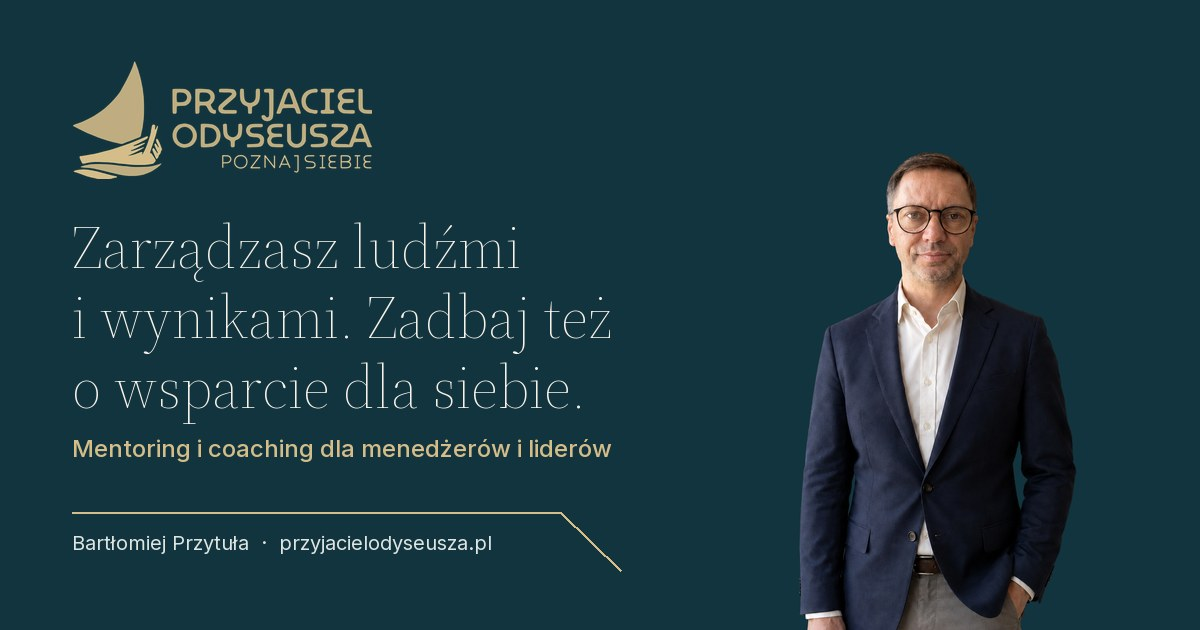
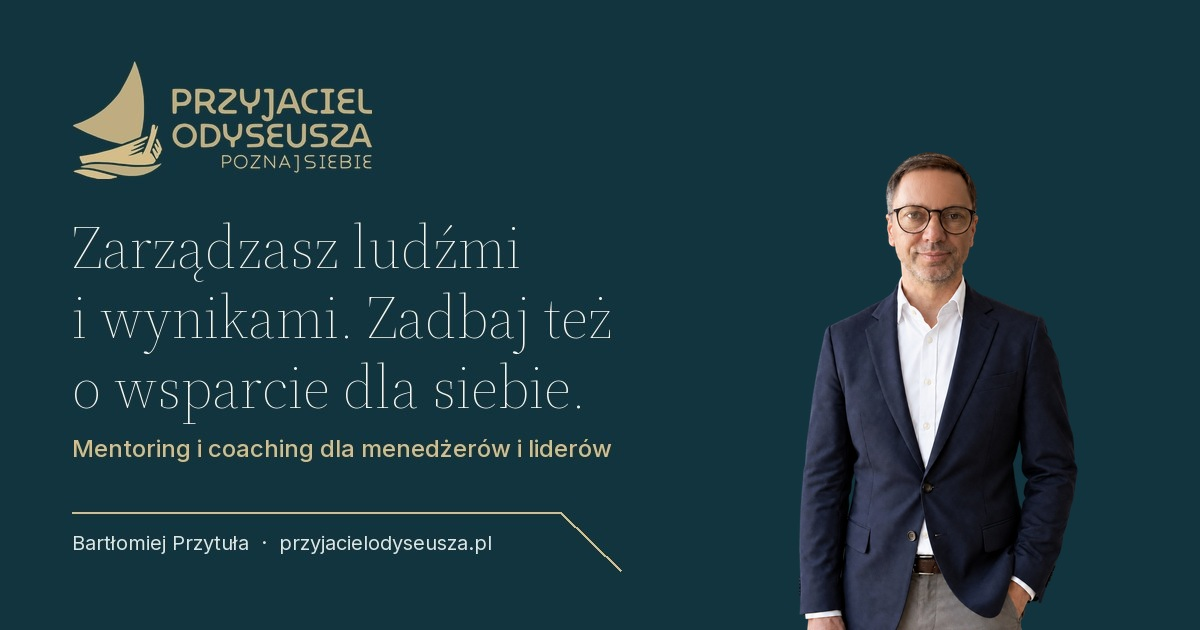
Apply approved portrait to the link sharing image

diff --git a/public/index.html b/public/index.html
@@ -14,7 +14,7 @@
   <meta property="og:title" content="Mentoring i coaching dla menedżerów | Przyjaciel Odyseusza">
   <meta property="og:description" content="Indywidualne wsparcie menedżerów dla firm, HR i zarządów. Mentoring i coaching z Bartłomiejem Przytułą. Możesz też zgłosić się prywatnie.">
   <meta property="og:url" content="https://przyjacielodyseusza.pl/">
-  <meta property="og:image" content="https://przyjacielodyseusza.pl/assets/img/og-image.jpg">
+  <meta property="og:image" content="https://przyjacielodyseusza.pl/assets/img/og-image.jpg?v=20261016-adopt4">
   <meta property="og:image:width" content="1200">
   <meta property="og:image:height" content="630">
   <meta property="og:image:alt" content="Bartłomiej Przytuła na ciemnym tle, obok logo Przyjaciel Odyseusza „poznaj siebie” i hasło: „Zarządzasz ludźmi i wynikami. Zadbaj też o wsparcie dla siebie. Mentoring i coaching dla menedżerów i liderów”.">
@@ -41,7 +41,7 @@
         "alternateName": "Przyjaciel Odyseusza – poznaj siebie",
         "url": "https://przyjacielodyseusza.pl/",
         "logo": "https://przyjacielodyseusza.pl/assets/img/logo-przyjaciel-odyseusza-600.png",
-        "image": "https://przyjacielodyseusza.pl/assets/img/og-image.jpg",
+        "image": "https://przyjacielodyseusza.pl/assets/img/og-image.jpg?v=20261016-adopt4",
         "description": "Mentoring biznesowy i coaching dla menedżerów i liderów. Indywidualne sesje dla firm i osób prywatnych, online lub stacjonarnie.",
         "email": "bartek@przyjacielodyseusza.pl",
         "telephone": "+48601145360",
